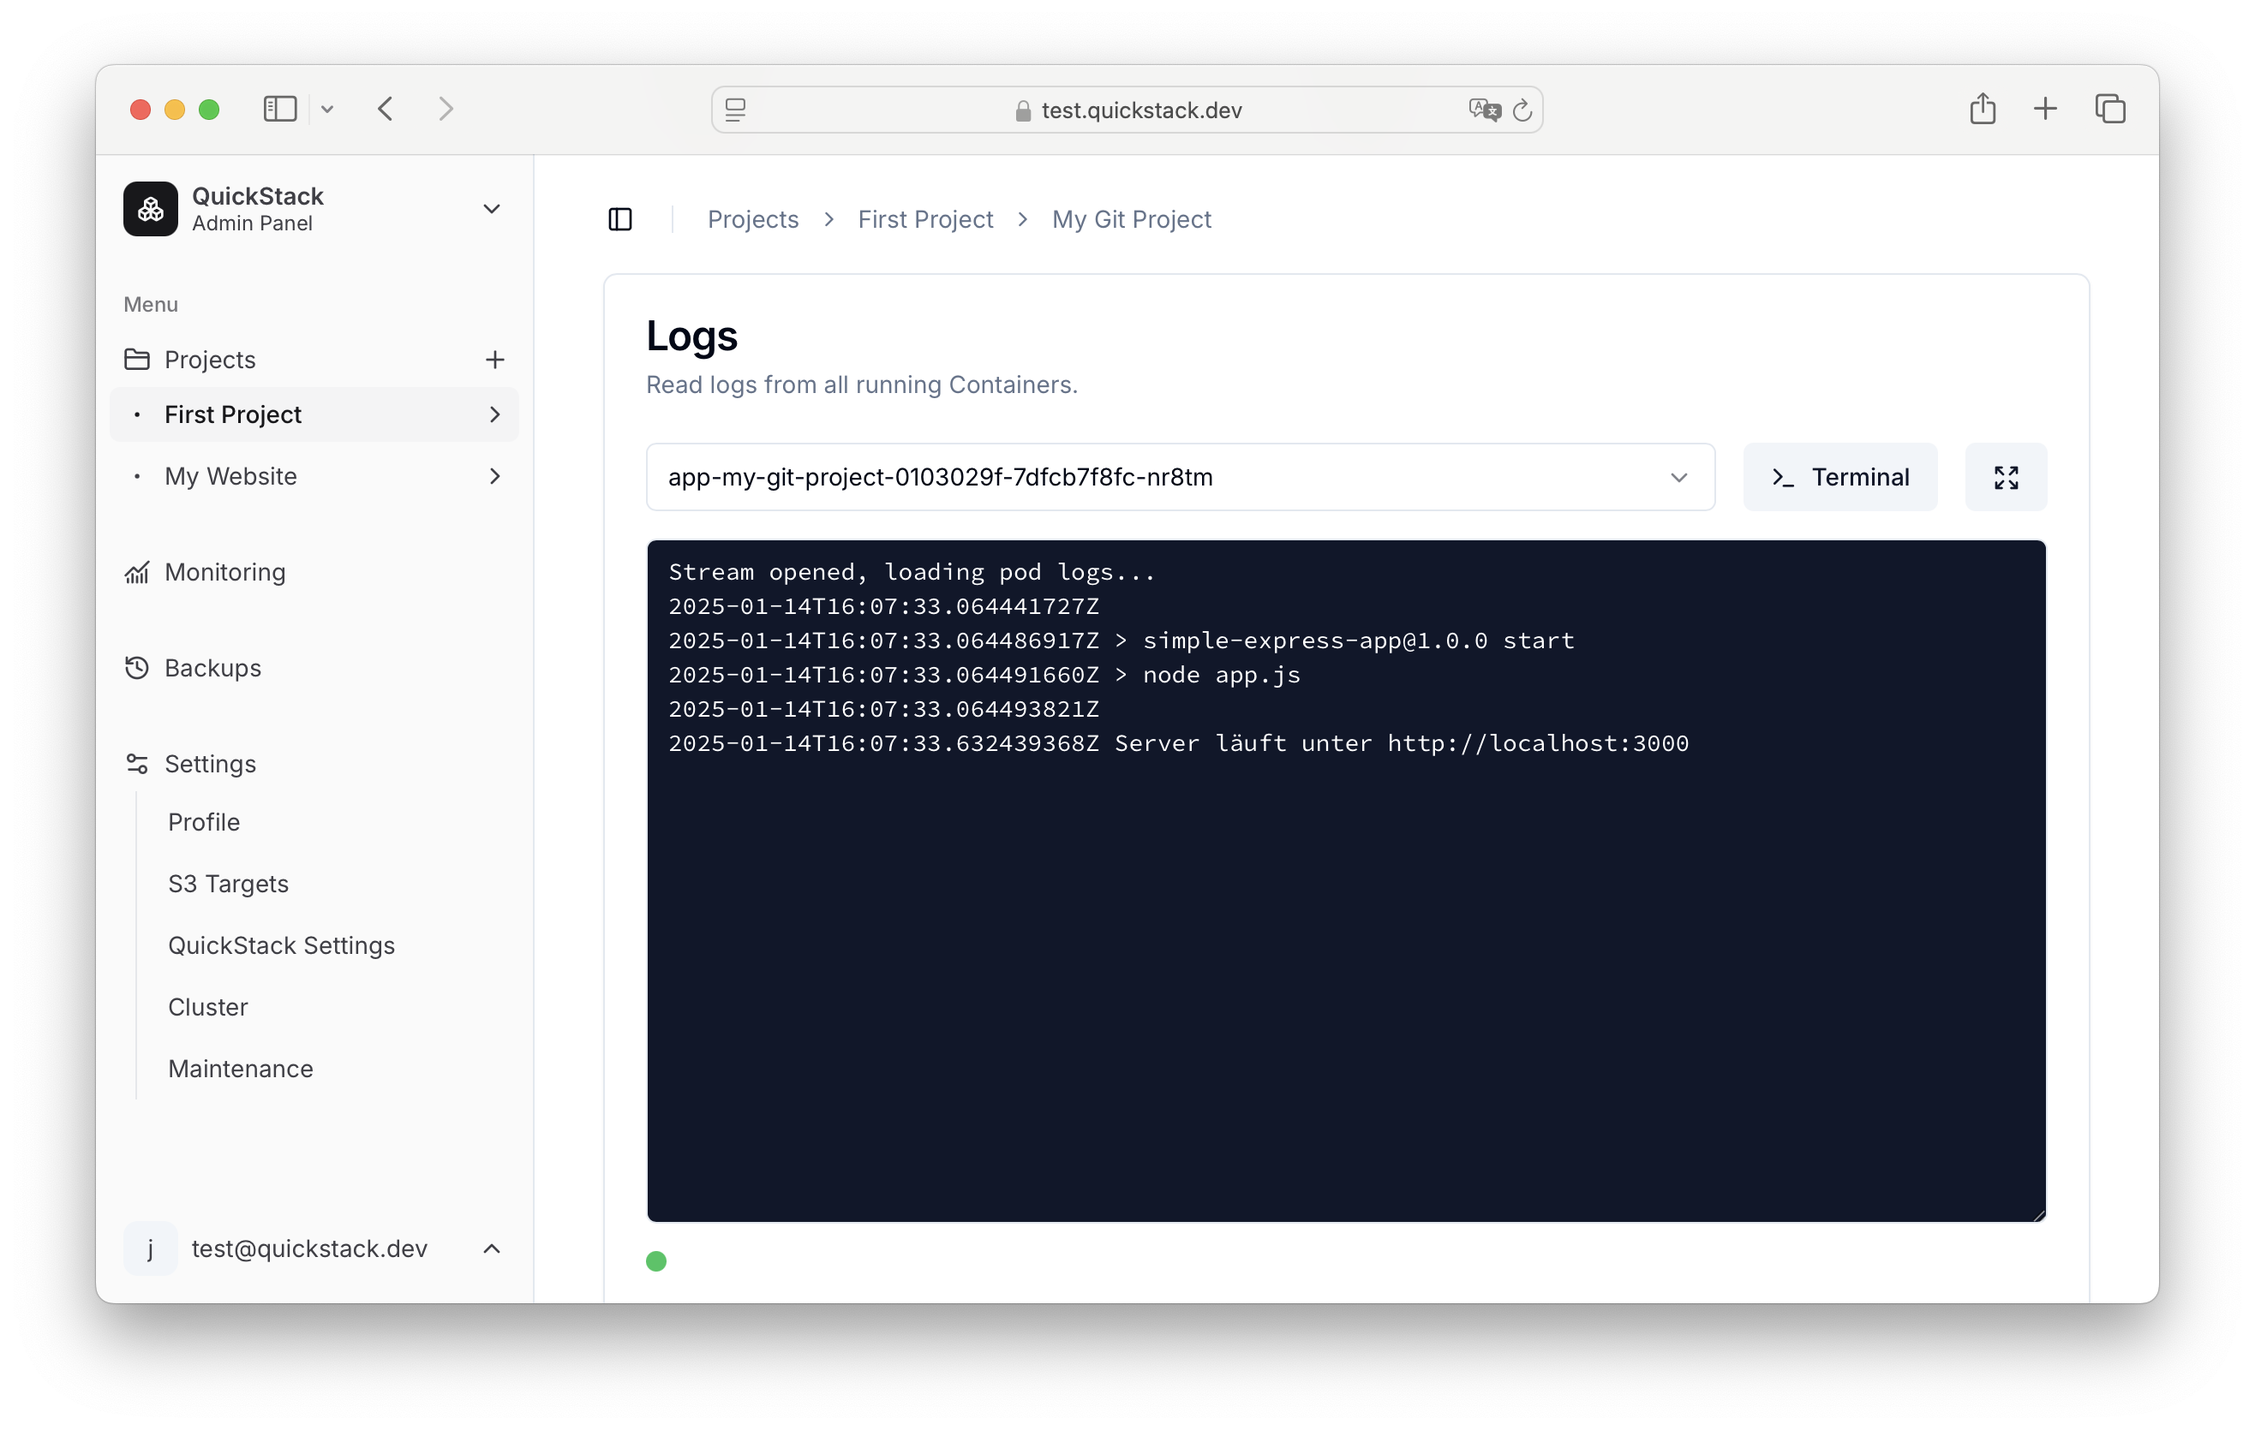
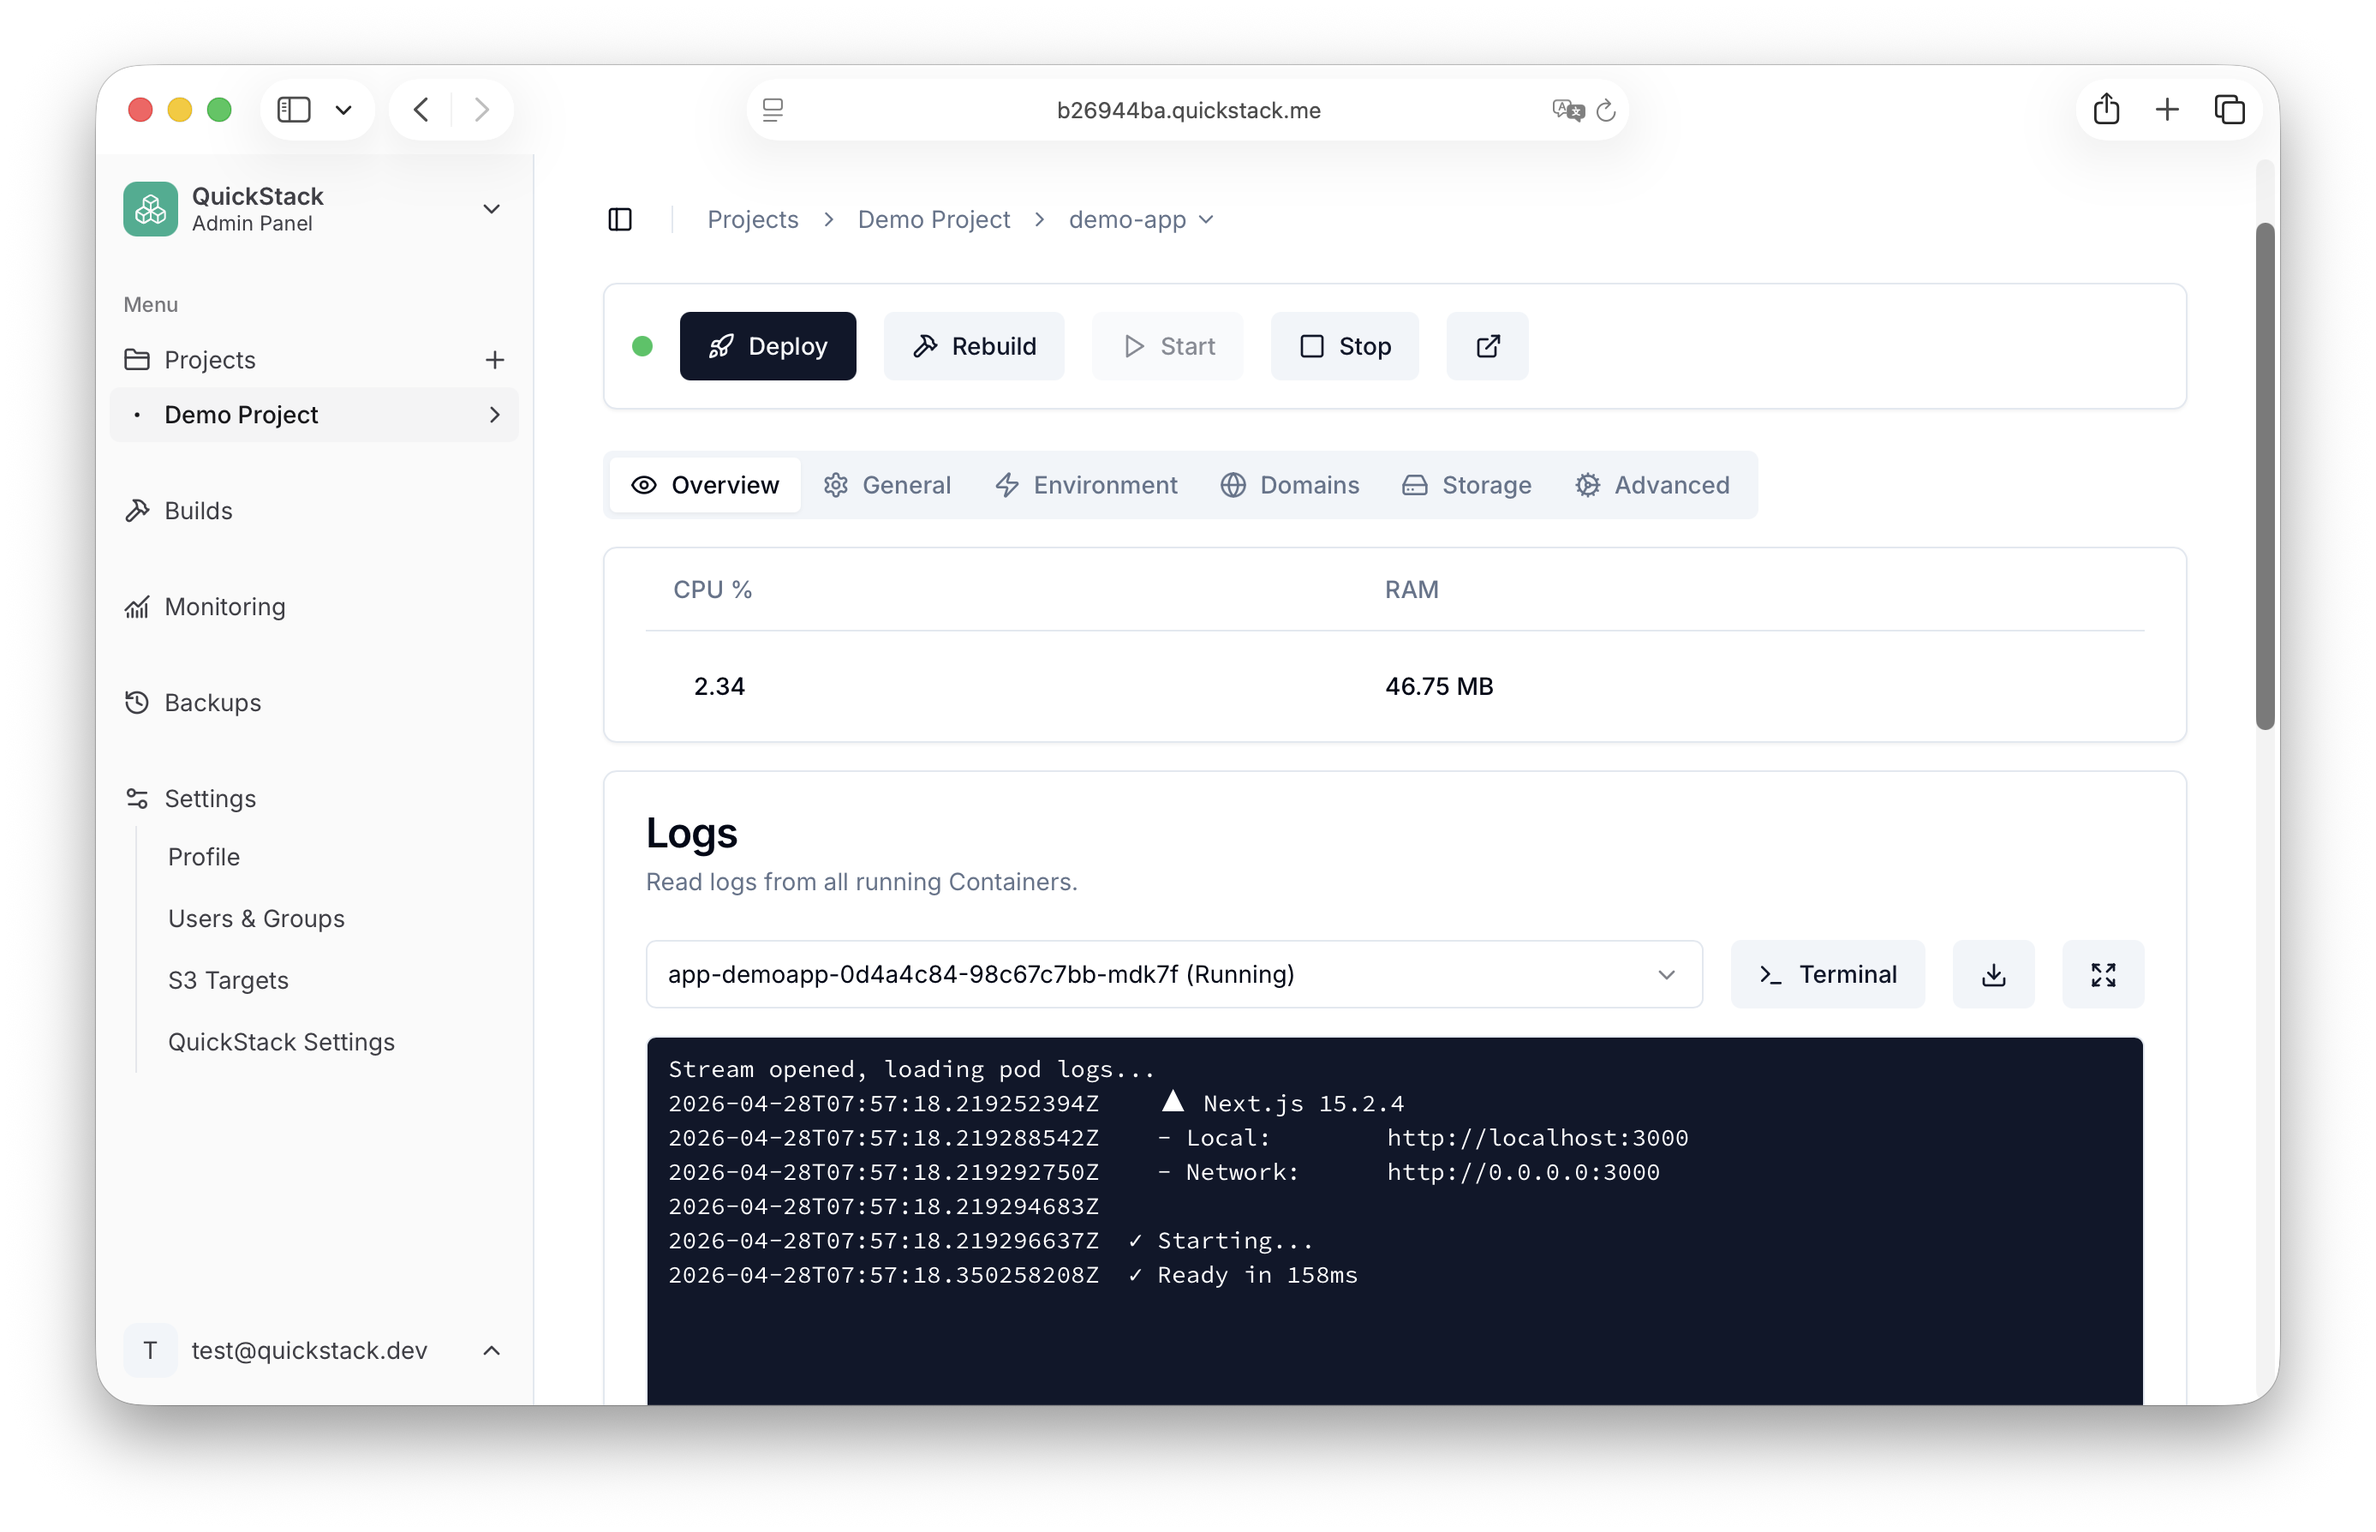
fix: small optimizations and current screenshots for landing page

diff --git a/components/landing/screenshots-section.tsx b/components/landing/screenshots-section.tsx
@@ -1,6 +1,7 @@
 import Image from 'next/image';
 import { Card, CardContent } from '@/components/ui/card';
 import { Tabs, TabsContent, TabsList, TabsTrigger } from '@/components/ui/tabs';
+import { ScrollArea, ScrollBar } from '../ui/scroll-area';
 
 export function ScreenshotsSection() {
   return (
@@ -8,7 +9,7 @@ export function ScreenshotsSection() {
       <div className="text-center space-y-4 mb-12">
         <h2 className="text-3xl md:text-5xl font-bold">QuickStack in Action</h2>
       </div>
-      
+
       <Tabs defaultValue="git" className="w-full">
         <TabsList className="grid w-full max-w-4xl mx-auto grid-cols-3 lg:grid-cols-6 mb-8">
           <TabsTrigger value="git">Git Deploy</TabsTrigger>
@@ -18,86 +19,85 @@ export function ScreenshotsSection() {
           <TabsTrigger value="monitoring">Monitoring</TabsTrigger>
           <TabsTrigger value="backups">Backups</TabsTrigger>
         </TabsList>
-        
         <div className="flex justify-center">
           <div className="w-full max-w-6xl">
             <TabsContent value="git" className="mt-0">
               <Card className="border-border/50">
                 <CardContent className="p-2">
-                  <Image 
-                    src="/img/app-screenshots/1.png" 
-                    alt="Git Deployment" 
-                    width={1200} 
+                  <Image
+                    src="/img/app-screenshots/1.png"
+                    alt="Git Deployment"
+                    width={1200}
                     height={800}
                     className="w-full rounded-md"
                   />
                 </CardContent>
               </Card>
             </TabsContent>
-            
+
             <TabsContent value="logs" className="mt-0">
               <Card className="border-border/50">
                 <CardContent className="p-2">
-                  <Image 
-                    src="/img/app-screenshots/2.png" 
-                    alt="App Logs" 
-                    width={1200} 
+                  <Image
+                    src="/img/app-screenshots/2.png"
+                    alt="App Logs"
+                    width={1200}
                     height={800}
                     className="w-full rounded-md"
                   />
                 </CardContent>
               </Card>
             </TabsContent>
-            
+
             <TabsContent value="terminal" className="mt-0">
               <Card className="border-border/50">
                 <CardContent className="p-2">
-                  <Image 
-                    src="/img/app-screenshots/3.png" 
-                    alt="Integrated Web Terminal" 
-                    width={1200} 
+                  <Image
+                    src="/img/app-screenshots/3.png"
+                    alt="Integrated Web Terminal"
+                    width={1200}
                     height={800}
                     className="w-full rounded-md"
                   />
                 </CardContent>
               </Card>
             </TabsContent>
-            
+
             <TabsContent value="database" className="mt-0">
               <Card className="border-border/50">
                 <CardContent className="p-2">
-                  <Image 
-                    src="/img/app-screenshots/4.png" 
-                    alt="Database Deployment" 
-                    width={1200} 
+                  <Image
+                    src="/img/app-screenshots/4.png"
+                    alt="Database Deployment"
+                    width={1200}
                     height={800}
                     className="w-full rounded-md"
                   />
                 </CardContent>
               </Card>
             </TabsContent>
-            
+
             <TabsContent value="monitoring" className="mt-0">
               <Card className="border-border/50">
                 <CardContent className="p-2">
-                  <Image 
-                    src="/img/app-screenshots/5.png" 
-                    alt="Server Monitoring" 
-                    width={1200} 
+                  <Image
+                    src="/img/app-screenshots/5.png"
+                    alt="Server Monitoring"
+                    width={1200}
                     height={800}
                     className="w-full rounded-md"
                   />
                 </CardContent>
               </Card>
             </TabsContent>
-            
+
             <TabsContent value="backups" className="mt-0">
               <Card className="border-border/50">
                 <CardContent className="p-2">
-                  <Image 
-                    src="/img/app-screenshots/6.png" 
-                    alt="Backups" 
-                    width={1200} 
+                  <Image
+                    src="/img/app-screenshots/6.png"
+                    alt="Backups"
+                    width={1200}
                     height={800}
                     className="w-full rounded-md"
                   />

diff --git a/components/ui/scroll-area.tsx b/components/ui/scroll-area.tsx
@@ -1,0 +1,55 @@
+"use client"
+
+import * as React from "react"
+import { ScrollArea as ScrollAreaPrimitive } from "@base-ui/react/scroll-area"
+
+import { cn } from "@/lib/utils"
+
+function ScrollArea({
+  className,
+  children,
+  ...props
+}: ScrollAreaPrimitive.Root.Props) {
+  return (
+    <ScrollAreaPrimitive.Root
+      data-slot="scroll-area"
+      className={cn("relative", className)}
+      {...props}
+    >
+      <ScrollAreaPrimitive.Viewport
+        data-slot="scroll-area-viewport"
+        className="size-full rounded-[inherit] transition-[color,box-shadow] outline-none focus-visible:ring-[3px] focus-visible:ring-ring/50 focus-visible:outline-1"
+      >
+        {children}
+      </ScrollAreaPrimitive.Viewport>
+      <ScrollBar />
+      <ScrollAreaPrimitive.Corner />
+    </ScrollAreaPrimitive.Root>
+  )
+}
+
+function ScrollBar({
+  className,
+  orientation = "vertical",
+  ...props
+}: ScrollAreaPrimitive.Scrollbar.Props) {
+  return (
+    <ScrollAreaPrimitive.Scrollbar
+      data-slot="scroll-area-scrollbar"
+      data-orientation={orientation}
+      orientation={orientation}
+      className={cn(
+        "flex touch-none p-px transition-colors select-none data-horizontal:h-2.5 data-horizontal:flex-col data-horizontal:border-t data-horizontal:border-t-transparent data-vertical:h-full data-vertical:w-2.5 data-vertical:border-l data-vertical:border-l-transparent",
+        className
+      )}
+      {...props}
+    >
+      <ScrollAreaPrimitive.Thumb
+        data-slot="scroll-area-thumb"
+        className="relative flex-1 rounded-full bg-border"
+      />
+    </ScrollAreaPrimitive.Scrollbar>
+  )
+}
+
+export { ScrollArea, ScrollBar }

diff --git a/app/layout.tsx b/app/layout.tsx
@@ -35,7 +35,37 @@ export const metadata: Metadata = {
     { rel: "icon", url: "/img/quickstack-icon-dark.png" },
     //{ rel: "apple-touch-icon", url: "/apple-touch-icon.png" }
   ],
-  keywords: ['self-hosting', 'PaaS', 'platform as a service', 'kubernetes', 'devops', 'cloud alternatives', 'web app hosting', 'database hosting', 'infrastructure management', 'deployment', 'server', 'monitoring', 'debugging', 'git', 'backups', 'containerized applications', 'personal cloud platform'],
+  keywords: [
+    'self-hosting',
+    'PaaS',
+    'platform as a service',
+    'kubernetes',
+    'devops',
+    'cloud alternatives',
+    'web app hosting',
+    'database hosting',
+    'infrastructure management',
+    'deployment',
+    'server',
+    'monitoring',
+    'debugging',
+    'git',
+    'backups',
+    'containerized applications',
+    'personal cloud platform',
+    'vercel alternative',
+    'alternative for vercel',
+    'netlify alternative',
+    'alternative for netlify',
+    'railway alternative',
+    'alternative for railway',
+    'alternative for tailway',
+    'heroku alternative',
+    'alternative for heroku',
+    'self hosted vercel alternative',
+    'self hosted netlify alternative',
+    'self hosted heroku alternative'
+  ],
   other: {
     "llms": "/llms.txt" // LLM discovery hint
   }

diff --git a/components/landing/hero-section.tsx b/components/landing/hero-section.tsx
@@ -17,6 +17,24 @@ const trustItems = [
   'Cluster Ready',
 ];
 
+const githubBadges = [
+  {
+    href: 'https://github.com/biersoeckli/QuickStack/stargazers',
+    src: 'https://img.shields.io/github/stars/biersoeckli/QuickStack?style=social',
+    alt: 'GitHub stars',
+  },
+  {
+    href: 'https://github.com/biersoeckli/QuickStack/blob/main/LICENSE',
+    src: 'https://img.shields.io/github/license/biersoeckli/QuickStack?color=22c55e',
+    alt: 'GitHub license',
+  },
+  {
+    href: 'https://github.com/biersoeckli/QuickStack/releases',
+    src: 'https://img.shields.io/github/v/release/biersoeckli/QuickStack?color=22c55e',
+    alt: 'GitHub release',
+  },
+];
+
 interface HeroSectionProps {
   theme: 'light' | 'dark';
 }
@@ -97,6 +115,14 @@ export function HeroSection({ theme }: HeroSectionProps) {
               View on GitHub
             </Button>
           </Link>
+        </div>
+
+        <div className="hidden lg:flex flex-wrap justify-center items-center gap-2">
+          {githubBadges.map((badge) => (
+            <Link key={badge.alt} href={badge.href} target="_blank" rel="noreferrer">
+              <img src={badge.src} alt={badge.alt} className="h-5 w-auto" loading="lazy" />
+            </Link>
+          ))}
         </div>
 
         {/* Trust Indicators */}
